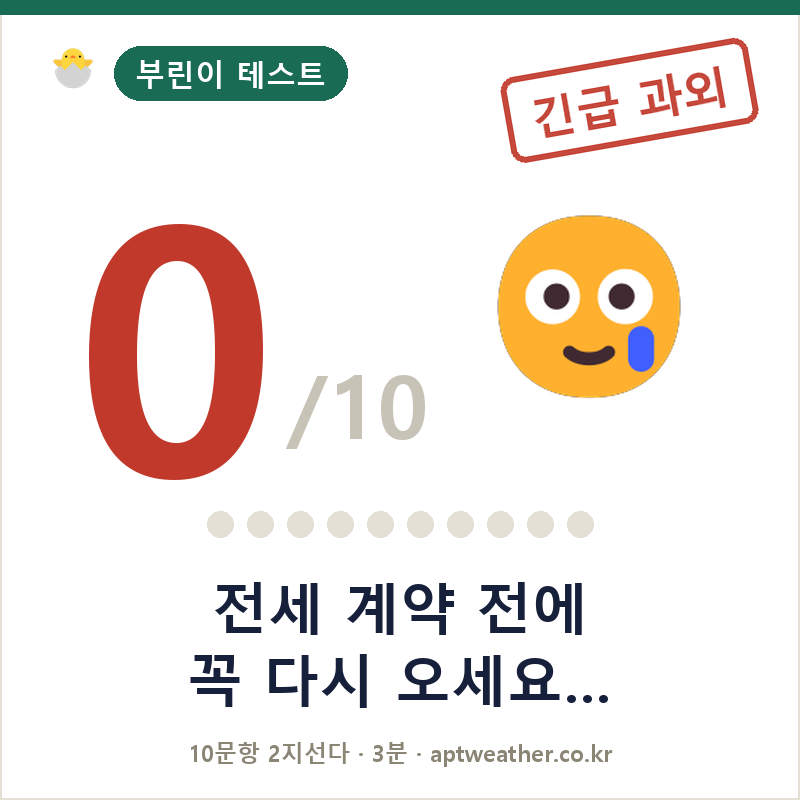
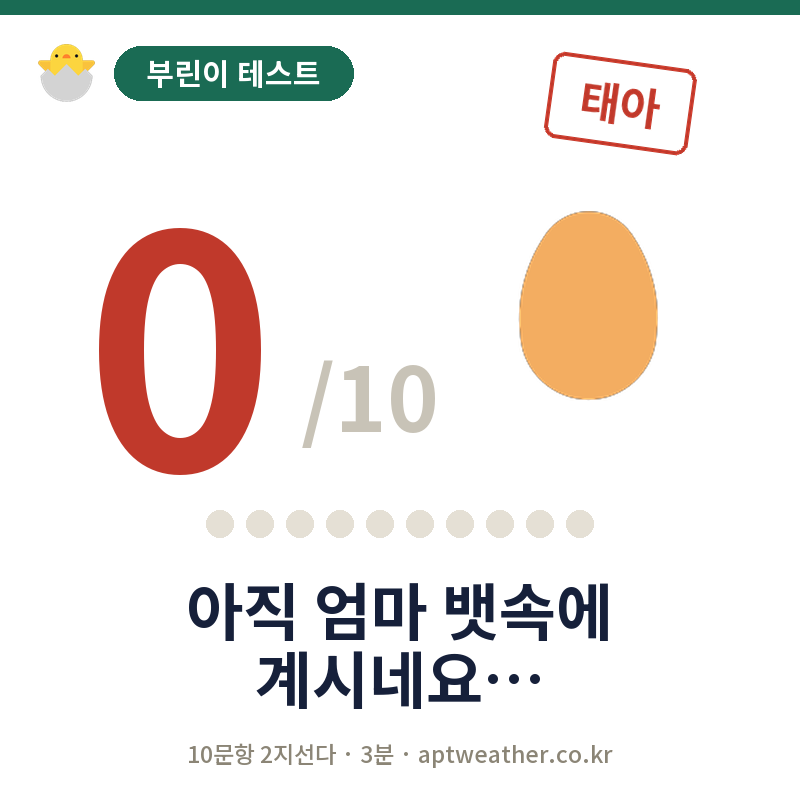
부린이 테스트 레벨 10단계로 개편 (태아 → 교수님)
- 5단계(2점 구간) → 10단계: 태아·신생아·어린이집·유치원·초등학생
  ·중학생·고등학생·대학생·대학원생·교수님 (0~1점은 태아 공유)
- grade()를 BLV 테이블 조회로 단순화, shareTaunt도 같은 테이블 사용
  → 결과 화면 문구와 공유 카드 이미지가 항상 일치
- share/beginner-{0..10}.png 11장 재생성 (스탬프=레벨명, 이모지, 도발 문구)
  기존 카드에서 추출한 좌표·색 램프(빨강→앰버→초록→골드) 그대로 유지
- tools/make_beginner_cards.py 로 생성기 보관 (문구 수정 시 재실행)
- 투자자 테스트 5단계는 변경 없음

diff --git a/index.html b/index.html
@@ -1334,6 +1334,43 @@ function drawLeadtime(){
 }
 
 /* ============ 부동산 테스트 (부린이 / 투자자) ============ */
+/* 부린이 테스트 레벨 10단계 (점수 0~10 → 태아부터 교수님까지).
+   share/beginner-{0..10}.png 카드의 스탬프·이모지·문구와 1:1로 대응한다. */
+const BLV=[
+  {lv:'LV1',emoji:'\u{1F95A}',g:'아직 세상에 안 나온 부동산 태아',
+   d:'전세와 월세의 차이부터 천천히. 괜찮아요, 모두 여기서 시작합니다.',
+   taunt:'아직 엄마 뱃속에 계시네요…'},
+  {lv:'LV1',emoji:'\u{1F95A}',g:'아직 세상에 안 나온 부동산 태아',
+   d:'전세와 월세의 차이부터 천천히. 괜찮아요, 모두 여기서 시작합니다.',
+   taunt:'아직 엄마 뱃속에 계시네요…'},
+  {lv:'LV2',emoji:'\u{1F476}',g:'갓 태어난 신생아 부린이',
+   d:'이제 막 눈을 떴습니다. 용어부터 하나씩 익히면 금방 걸음마해요.',
+   taunt:'전세 계약서만 보면 울음부터 나오죠'},
+  {lv:'LV3',emoji:'\u{1F9F8}',g:'어린이집 다니는 부린이',
+   d:'단어는 들어봤는데 뜻은 아직. 해설만 읽어도 두 계단은 올라갑니다.',
+   taunt:'등기부등본이 아직 그림책 같죠?'},
+  {lv:'LV4',emoji:'\u{1F392}',g:'유치원 부린이',
+   d:'기초 용어에 익숙해지는 중. LTV·DSR만 정리해도 확 달라집니다.',
+   taunt:'LTV랑 DSR, 아직 헷갈리시죠?'},
+  {lv:'LV5',emoji:'\u{270F}\u{FE0F}',g:'초등학생 부린이',
+   d:'용어는 외웠지만 실전은 아직. 계약서 앞에선 아직 손이 떨릴 겁니다.',
+   taunt:'용어는 외웠는데 실전은 아직이에요'},
+  {lv:'LV6',emoji:'\u{1F4D0}',g:'중학생 부린이',
+   d:'발품은 파는데 제도에서 막히는 단계. 틀린 문항 해설을 한 번 더 읽어보세요.',
+   taunt:'임장은 다녀봤니, 부린이?'},
+  {lv:'LV7',emoji:'\u{1F4D7}',g:'고등학생 부린이',
+   d:'기본기는 탄탄합니다. 헷갈린 한두 개 제도만 챙기면 졸업이 보입니다.',
+   taunt:'제도는 다 아시네요. 이제 실전만 남았어요'},
+  {lv:'LV8',emoji:'\u{1F4DA}',g:'대학생 부린이',
+   d:'대출·세금·임대차를 또렷이 꿰고 있습니다. 계약서 앞에서 안 떨릴 수준.',
+   taunt:'계약서 앞에서 안 떨리겠는데요?'},
+  {lv:'LV9',emoji:'\u{1F52C}',g:'대학원생 부린이',
+   d:'이쯤 되면 중개사에게 되묻는 쪽입니다. 투자자 테스트로 넘어갈 때입니다.',
+   taunt:'중개사보다 잘 아시는데요?'},
+  {lv:'LV10',emoji:'\u{1F393}',g:'부동산학 교수님',
+   d:'부린이는 무슨 — 강단에 서셔도 됩니다. 이제 투자자 테스트에서 통념을 깨보세요.',
+   taunt:'혹시… 부동산학 강의하세요?'}
+];
 const QUIZSETS={
   beginner:{
     title:'부린이 테스트', emoji:'🐣',
@@ -1439,13 +1476,7 @@ const QUIZSETS={
    answer:0,
    exp:'정답은 <b>O</b>. 법과 조례는 거래 금액 구간별로 <b>상한 요율</b>을 정해 두고, 이를 초과해 받는 것은 불법이다. 다만 정해진 건 어디까지나 <b>상한</b>이라 그 한도 안에서는 중개사와 협의해 낮출 수 있다 — 상한이 곧 정찰가는 아니다.'},
     ],
-    grade:s=>{
-      if(s>=9)return{lv:'LV5',g:'부린이 졸업, 어엿한 실수요자',d:'대출·세금·임대차 제도를 또렷이 꿰고 있습니다. 이제 부린이가 아니라, 계약서 앞에서 안 떨리는 진짜 실수요자. 투자자 테스트로 넘어갈 때입니다.',emoji:'🎓'};
-      if(s>=7)return{lv:'LV4',g:'계약서는 읽을 줄 아는 예비 집주인',d:'기본기는 탄탄합니다. 헷갈린 한두 개 제도만 다시 챙기면 곧 부린이 졸업장이 보입니다.',emoji:'📗'};
-      if(s>=5)return{lv:'LV3',g:'임장은 다녀봤니 부린이',d:'발품은 팔지만 아직 용어에서 막히는 단계. 틀린 문항 해설을 한 번 더 읽으면 눈에 띄게 올라옵니다.',emoji:'👟'};
-      if(s>=3)return{lv:'LV2',g:'부동산이 처음인 새내기 부린이',d:'용어도 제도도 아직 낯설 뿐, 누구나 거치는 출발선입니다. 해설부터 차근차근 익히면 금방 따라잡아요.',emoji:'🐣'};
-      return{lv:'LV1',g:'용어가 다 외계어인 생초보',d:'괜찮아요, 모두 여기서 시작합니다. 문항 해설만 차근히 읽어도 두 레벨은 금방 올라갑니다.',emoji:'🥚'};
-    }
+    grade:s=>BLV[Math.max(0,Math.min(10,s|0))]
   },
   investor:{
     title:'투자자 테스트', emoji:'🦅',
@@ -1777,13 +1808,7 @@ function shareTest(){
   }else{copyText(txt);}
 }
 function shareTaunt(s){
-  if(curSet==='beginner'){
-    if(s>=9)return '계약서 앞에서 안 떨리겠는데요?';
-    if(s>=7)return '제도는 다 아시네요. 이제 실전만 남았어요';
-    if(s>=5)return '발품은 파는데 용어에서 막히시죠?';
-    if(s>=3)return 'LTV랑 DSR, 아직 헷갈리시죠?';
-    return '전세 계약 전에 꼭 다시 오세요…';
-  }
+  if(curSet==='beginner')return BLV[Math.max(0,Math.min(10,s|0))].taunt;
   if(s>=9)return '이걸 다 맞히네… 혹시 업자세요?';
   if(s>=7)return '머릿속엔 이미 다주택자시네요';
   if(s>=5)return '감은 있어요. 계약은 아직 이르지만';

diff --git a/tools/make_beginner_cards.py b/tools/make_beginner_cards.py
@@ -1,0 +1,147 @@
+# -*- coding: utf-8 -*-
+"""부린이 테스트 점수별 공유 카드 (800x800) — 10단계 레벨"""
+import io, os, sys
+from PIL import Image, ImageDraw, ImageFont
+
+W = H = 800
+WHITE = (255, 255, 255)
+BAR = (26, 107, 84)          # 부린이 = 짙은 초록
+PILL = (26, 107, 84)
+INK = (22, 32, 58)
+GRAY = (200, 195, 183)       # /10
+FOOT = (139, 133, 118)
+DOT_ON = (31, 138, 112)
+DOT_OFF = (229, 224, 213)
+
+RED = (192, 57, 43)
+AMBER = (217, 154, 0)
+GREEN = (31, 138, 112)
+GOLD = (184, 134, 47)
+# 원본 램프 유지: 0~4 빨강 / 5~6 앰버 / 7~8 초록 / 9~10 골드
+ACCENT = [RED]*5 + [AMBER]*2 + [GREEN]*2 + [GOLD]*2
+
+NOTO = 'C:/Windows/Fonts/NotoSansKR-VF.ttf'
+EMOJI = 'C:/Windows/Fonts/seguiemj.ttf'
+
+def noto(size, weight='Bold'):
+    f = ImageFont.truetype(NOTO, size)
+    f.set_variation_by_name(weight)
+    return f
+
+def fit_font(text, target, weight='Bold', axis='h', lo=10, hi=460):
+    """ink 높이(또는 너비)가 target이 되도록 폰트 크기를 이분 탐색"""
+    probe = Image.new('RGB', (10, 10))
+    d = ImageDraw.Draw(probe)
+    best = lo
+    while lo <= hi:
+        mid = (lo + hi) // 2
+        f = noto(mid, weight)
+        bb = d.textbbox((0, 0), text, font=f)
+        v = (bb[3]-bb[1]) if axis == 'h' else (bb[2]-bb[0])
+        if v <= target:
+            best = mid; lo = mid + 1
+        else:
+            hi = mid - 1
+    return noto(best, weight)
+
+def ink_bbox(draw, xy, text, font, **kw):
+    return draw.textbbox(xy, text, font=font, **kw)
+
+def emoji_img(ch, box):
+    """이모지를 그려 ink만 크롭한 뒤 box(px) 정사각에 맞춰 축소"""
+    canvas = Image.new('RGBA', (400, 400), (0, 0, 0, 0))
+    d = ImageDraw.Draw(canvas)
+    d.text((40, 40), ch, font=ImageFont.truetype(EMOJI, 137), embedded_color=True)
+    bb = canvas.getbbox()
+    im = canvas.crop(bb)
+    scale = box / max(im.size)
+    return im.resize((max(1, int(im.width*scale)), max(1, int(im.height*scale))), Image.LANCZOS)
+
+def rounded(draw, box, r, **kw):
+    draw.rounded_rectangle(box, radius=r, **kw)
+
+def make_card(score, level, out_path):
+    img = Image.new('RGB', (W, H), WHITE)
+    d = ImageDraw.Draw(img)
+    accent = ACCENT[score]
+
+    # 상단 바
+    d.rectangle([0, 0, W, 14], fill=BAR)
+
+    # 좌상단 병아리 + 필
+    chick = emoji_img('\U0001F423', 58)
+    img.paste(chick, (38, 44), chick)
+    pill_f = noto(30, 'Bold')
+    label = '부린이 테스트'
+    tw = d.textbbox((0, 0), label, font=pill_f)
+    pw = (tw[2]-tw[0]) + 64
+    rounded(d, [114, 46, 114+pw, 100], 27, fill=PILL)
+    d.text((114+pw/2, 73), label, font=pill_f, fill=WHITE, anchor='mm')
+
+    # 우상단 스탬프 (기울어진 라운드 사각형)
+    st_f = noto(44, 'Bold')
+    sb = d.textbbox((0, 0), level['stamp'], font=st_f)
+    sw, sh = (sb[2]-sb[0]) + 64, 86
+    stamp = Image.new('RGBA', (sw+24, sh+24), (0, 0, 0, 0))
+    sd = ImageDraw.Draw(stamp)
+    sd.rounded_rectangle([12, 12, 12+sw, 12+sh], radius=12, outline=accent, width=4)
+    sd.text((12+sw/2, 12+sh/2), level['stamp'], font=st_f, fill=accent, anchor='mm')
+    stamp = stamp.rotate(-8, resample=Image.BICUBIC, expand=True)
+    img.paste(stamp, (620 - stamp.width//2, 103 - stamp.height//2), stamp)
+
+    # 큰 이모지
+    em = emoji_img(level['emoji'], 190)
+    img.paste(em, (588 - em.width//2, 306 - em.height//2), em)
+
+    # 점수 + /10
+    s_txt = str(score)
+    s_f = fit_font(s_txt, 248)
+    sb = d.textbbox((0, 0), s_txt, font=s_f)
+    sx = 180 - (sb[2]-sb[0])/2 - sb[0]
+    sy = 475 - sb[3]
+    d.text((sx, sy), s_txt, font=s_f, fill=accent)
+    s_right = sx + sb[2]
+
+    o_f = fit_font('/10', 138, axis='w')
+    ob = d.textbbox((0, 0), '/10', font=o_f)
+    d.text((s_right + 26 - ob[0], 448 - ob[3]), '/10', font=o_f, fill=GRAY)
+
+    # 진행 점 10개
+    for i in range(10):
+        cx = 220 + 40*i
+        c = DOT_ON if i < score else DOT_OFF
+        d.ellipse([cx-13.5, 524-13.5, cx+13.5, 524+13.5], fill=c)
+
+    # 도발 문구 2줄
+    t_f = noto(62, 'Bold')
+    for i, line in enumerate(level['taunt2']):
+        d.text((400, 610 + i*68), line, font=t_f, fill=INK, anchor='mm')
+
+    # 푸터
+    f_f = noto(23, 'Medium')
+    d.text((400, 754), '10문항 2지선다 · 3분 · aptweather.co.kr', font=f_f, fill=FOOT, anchor='mm')
+
+    img.save(out_path, 'PNG', optimize=True)
+
+
+LEVELS = [
+    # score 0
+    dict(stamp='태아', emoji='\U0001F95A', taunt2=['아직 엄마 뱃속에', '계시네요…']),
+    dict(stamp='태아', emoji='\U0001F95A', taunt2=['아직 엄마 뱃속에', '계시네요…']),
+    dict(stamp='신생아', emoji='\U0001F476', taunt2=['전세 계약서만 보면', '울음부터 나오죠']),
+    dict(stamp='어린이집', emoji='\U0001F9F8', taunt2=['등기부등본이', '아직 그림책 같죠?']),
+    dict(stamp='유치원', emoji='\U0001F392', taunt2=['LTV랑 DSR,', '아직 헷갈리시죠?']),
+    dict(stamp='초등학생', emoji='✏', taunt2=['용어는 외웠는데', '실전은 아직이에요']),
+    dict(stamp='중학생', emoji='\U0001F4D0', taunt2=['임장은 다녀봤니,', '부린이?']),
+    dict(stamp='고등학생', emoji='\U0001F4D7', taunt2=['제도는 다 아시네요', '이제 실전만 남았어요']),
+    dict(stamp='대학생', emoji='\U0001F4DA', taunt2=['계약서 앞에서', '안 떨리겠는데요?']),
+    dict(stamp='대학원생', emoji='\U0001F52C', taunt2=['중개사보다', '잘 아시는데요?']),
+    dict(stamp='교수님', emoji='\U0001F393', taunt2=['혹시… 부동산학', '강의하세요?']),
+]
+
+if __name__ == '__main__':
+    outdir = sys.argv[1]
+    os.makedirs(outdir, exist_ok=True)
+    for s in range(11):
+        make_card(s, LEVELS[s], os.path.join(outdir, 'beginner-%d.png' % s))
+    print('rendered 11 cards ->', outdir)
